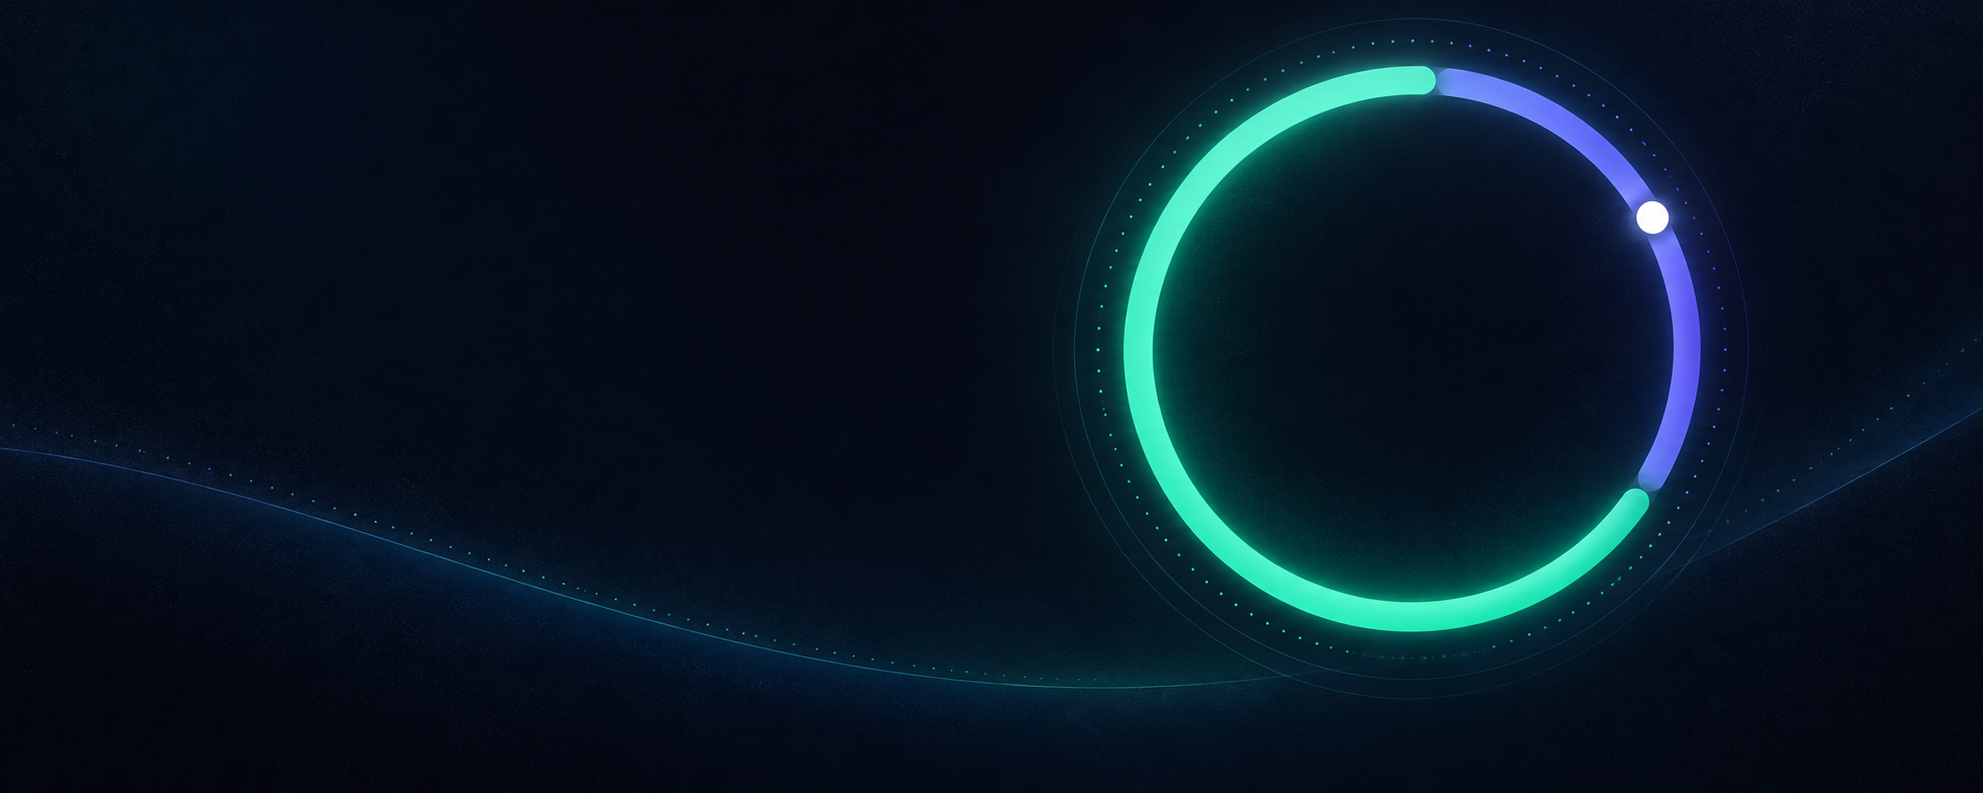
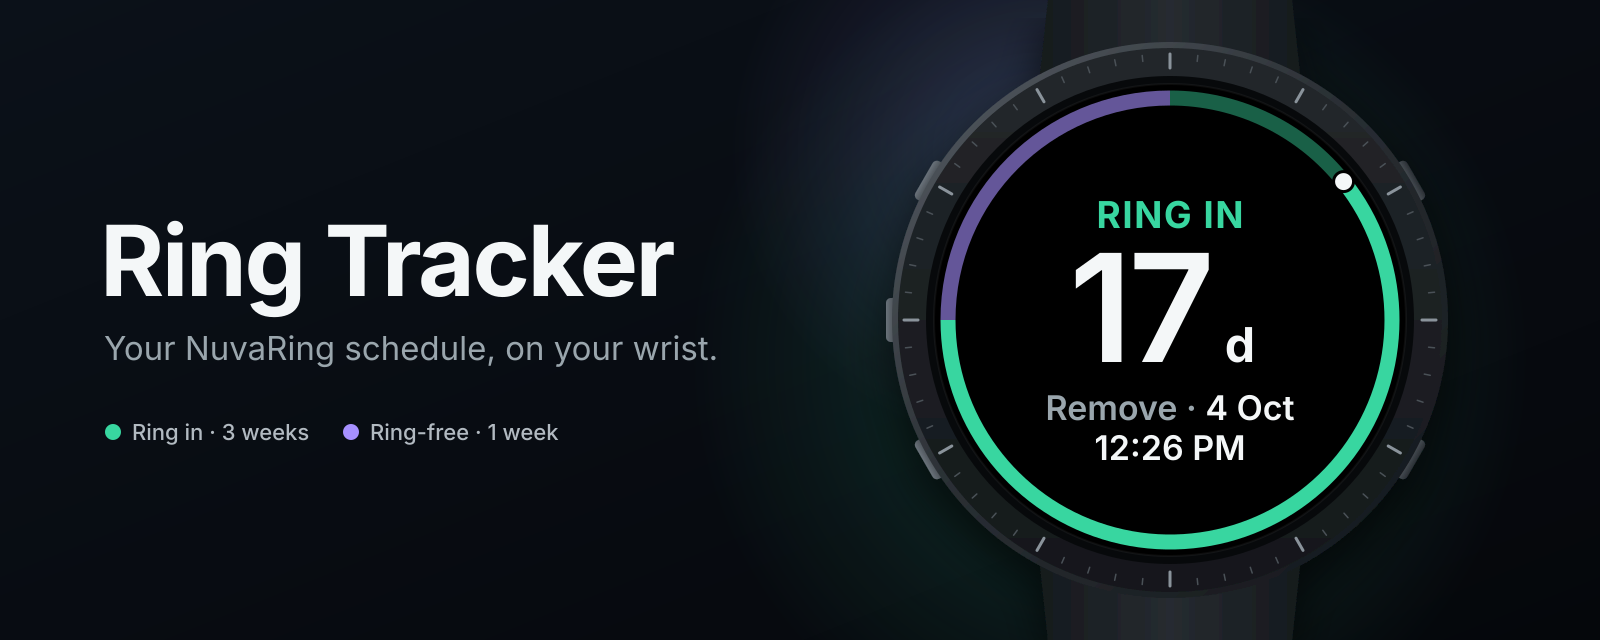
Redesign README hero around the watch face
Draw the hero as vector art matching the app's main screen (arc order,
colours, countdown), add the app name and tagline, and cut the PNG from
1.8 MB to 194 KB. Include the generator script and SVG source.

Changed region(s): [[0.0, 0.0, 1.0, 1.0], [0.1875, 0.3438, 0.4375, 0.4688], [0.0625, 0.3438, 0.1875, 0.5]]

diff --git a/scripts/readme-hero.py b/scripts/readme-hero.py
@@ -1,0 +1,102 @@
+#!/usr/bin/env python3
+"""Generate docs/readme-hero.svg. Render with:
+    rsvg-convert -w 1600 -h 640 docs/readme-hero.svg -o docs/readme-hero.png
+Requires the Inter font."""
+import math
+W, H = 1600, 640
+cx, cy = 1170, 320
+R_CASE, R_BEZEL_IN, R_SCREEN, R_ARC, ARC_W = 272, 244, 236, 222, 15
+
+def pt(r, deg):
+    a = math.radians(deg)
+    return cx + r * math.sin(a), cy - r * math.cos(a)
+
+def arc(r, a0, a1):
+    x0, y0 = pt(r, a0); x1, y1 = pt(r, a1)
+    large = 1 if (a1 - a0) > 180 else 0
+    return f"M{x0:.2f},{y0:.2f} A{r},{r} 0 {large} 1 {x1:.2f},{y1:.2f}"
+
+elapsed = 4 / 28 * 360
+ticks = []
+for i in range(60):
+    major = i % 5 == 0
+    x0, y0 = pt(R_CASE - 6, i * 6); x1, y1 = pt(R_CASE - (20 if major else 12), i * 6)
+    ticks.append(f'<line x1="{x0:.1f}" y1="{y0:.1f}" x2="{x1:.1f}" y2="{y1:.1f}" stroke="#{"8a939b" if major else "4a5157"}" stroke-width="{3 if major else 1.5}" stroke-linecap="round"/>')
+
+def button(deg, side):
+    x, y = pt(R_CASE + 4, deg)
+    w, h = 16, 44
+    return f'<rect x="{x - w/2:.1f}" y="{y - h/2:.1f}" width="{w}" height="{h}" rx="5" fill="url(#btn)" transform="rotate({deg - 90 if side > 0 else deg + 90:.1f} {x:.1f} {y:.1f})"/>'
+
+dx, dy = pt(R_ARC, elapsed)
+svg = f'''<svg xmlns="http://www.w3.org/2000/svg" width="{W}" height="{H}" viewBox="0 0 {W} {H}">
+  <defs>
+    <linearGradient id="bg" x1="0" y1="0" x2="1" y2="1">
+      <stop offset="0" stop-color="#0B1119"/><stop offset="1" stop-color="#05070B"/>
+    </linearGradient>
+    <radialGradient id="glowG" cx="{cx - 60}" cy="{cy + 40}" r="420" gradientUnits="userSpaceOnUse">
+      <stop offset="0" stop-color="#38D6A0" stop-opacity="0.22"/><stop offset="1" stop-color="#38D6A0" stop-opacity="0"/>
+    </radialGradient>
+    <radialGradient id="glowP" cx="{cx - 140}" cy="{cy - 170}" r="300" gradientUnits="userSpaceOnUse">
+      <stop offset="0" stop-color="#A690FF" stop-opacity="0.20"/><stop offset="1" stop-color="#A690FF" stop-opacity="0"/>
+    </radialGradient>
+    <linearGradient id="case" x1="0" y1="0" x2="1" y2="1">
+      <stop offset="0" stop-color="#5A6168"/><stop offset="0.45" stop-color="#2A2F34"/><stop offset="1" stop-color="#121518"/>
+    </linearGradient>
+    <linearGradient id="bezel" x1="0" y1="0" x2="0" y2="1">
+      <stop offset="0" stop-color="#23272B"/><stop offset="1" stop-color="#15181B"/>
+    </linearGradient>
+    <linearGradient id="strap" x1="0" y1="0" x2="1" y2="0">
+      <stop offset="0" stop-color="#15191D"/><stop offset="0.5" stop-color="#262B30"/><stop offset="1" stop-color="#15191D"/>
+    </linearGradient>
+    <linearGradient id="btn" x1="0" y1="0" x2="1" y2="0">
+      <stop offset="0" stop-color="#6A727A"/><stop offset="1" stop-color="#2A2F34"/>
+    </linearGradient>
+    <filter id="shadow" x="-30%" y="-30%" width="160%" height="160%">
+      <feDropShadow dx="0" dy="18" stdDeviation="22" flood-color="#000" flood-opacity="0.65"/>
+    </filter>
+  </defs>
+
+  <rect width="{W}" height="{H}" fill="url(#bg)"/>
+  <rect width="{W}" height="{H}" fill="url(#glowG)"/>
+  <rect width="{W}" height="{H}" fill="url(#glowP)"/>
+
+  <g font-family="Inter">
+    <text x="100" y="296" font-size="98" font-weight="700" letter-spacing="-2.5" fill="#F4F7F8">Ring Tracker</text>
+    <text x="104" y="360" font-size="33" font-weight="400" fill="#9AA6AD">Your NuvaRing schedule, on your wrist.</text>
+    <g font-size="22" font-weight="500" fill="#B2BAC1">
+      <circle cx="113" cy="432" r="8" fill="#38D6A0"/><text x="132" y="440">Ring in · 3 weeks</text>
+      <circle cx="351" cy="432" r="8" fill="#A690FF"/><text x="370" y="440">Ring-free · 1 week</text>
+    </g>
+  </g>
+
+  <g filter="url(#shadow)">
+    <path d="M{cx-120},-20 L{cx+120},-20 L{cx+135},{cy-200} L{cx-135},{cy-200} Z" fill="url(#strap)"/>
+    <path d="M{cx-135},{cy+200} L{cx+135},{cy+200} L{cx+120},{H+20} L{cx-120},{H+20} Z" fill="url(#strap)"/>
+    {button(60, 1)}{button(120, 1)}{button(-60, -1)}{button(-90, -1)}{button(-120, -1)}
+    <circle cx="{cx}" cy="{cy}" r="{R_CASE + 6}" fill="url(#case)"/>
+    <circle cx="{cx}" cy="{cy}" r="{R_CASE}" fill="url(#bezel)"/>
+  </g>
+  {''.join(ticks)}
+  <circle cx="{cx}" cy="{cy}" r="{R_BEZEL_IN}" fill="#07090B"/>
+  <circle cx="{cx}" cy="{cy}" r="{R_SCREEN}" fill="#000"/>
+
+  <g fill="none" stroke-width="{ARC_W}">
+    <path d="{arc(R_ARC, 0, elapsed)}" stroke="#196047"/>
+    <path d="{arc(R_ARC, elapsed, 270)}" stroke="#38D6A0"/>
+    <path d="{arc(R_ARC, 270, 360)}" stroke="#645699"/>
+  </g>
+  <circle cx="{dx:.2f}" cy="{dy:.2f}" r="10" fill="#F4F7F8" stroke="#000" stroke-width="3"/>
+
+  <g font-family="Inter" text-anchor="middle">
+    <text x="{cx}" y="{cy - 92}" font-size="37" font-weight="700" letter-spacing="1.5" fill="#38D6A0">RING IN</text>
+    <text x="{cx - 8}" y="{cy + 42}" font-size="150" font-weight="600" letter-spacing="-4" fill="#F4F7F8">17<tspan dx="10" font-size="48" font-weight="700">d</tspan></text>
+    <text x="{cx}" y="{cy + 100}" font-size="34" font-weight="600" fill="#9AA6AD">Remove · <tspan fill="#F4F7F8">4 Oct</tspan></text>
+    <text x="{cx}" y="{cy + 140}" font-size="34" font-weight="600" fill="#F4F7F8">12:26 PM</text>
+  </g>
+
+  <circle cx="{cx}" cy="{cy}" r="{R_SCREEN}" fill="none" stroke="#fff" stroke-opacity="0.05" stroke-width="2"/>
+</svg>
+'''
+import sys
+open(sys.argv[1], 'w').write(svg)

diff --git a/README.md b/README.md
@@ -2,7 +2,7 @@
 
 [![CI](https://github.com/BarishNamazov/garmin-ring-tracker/actions/workflows/ci.yml/badge.svg)](https://github.com/BarishNamazov/garmin-ring-tracker/actions/workflows/ci.yml)
 
-![Abstract ring schedule in teal and violet](docs/readme-hero.png)
+![Ring Tracker on a Garmin watch face showing a 17-day ring-in countdown](docs/readme-hero.png)
 
 Track your NuvaRing schedule on your Garmin watch. See when to insert or remove your ring, record what happened, and get reminders.
 
